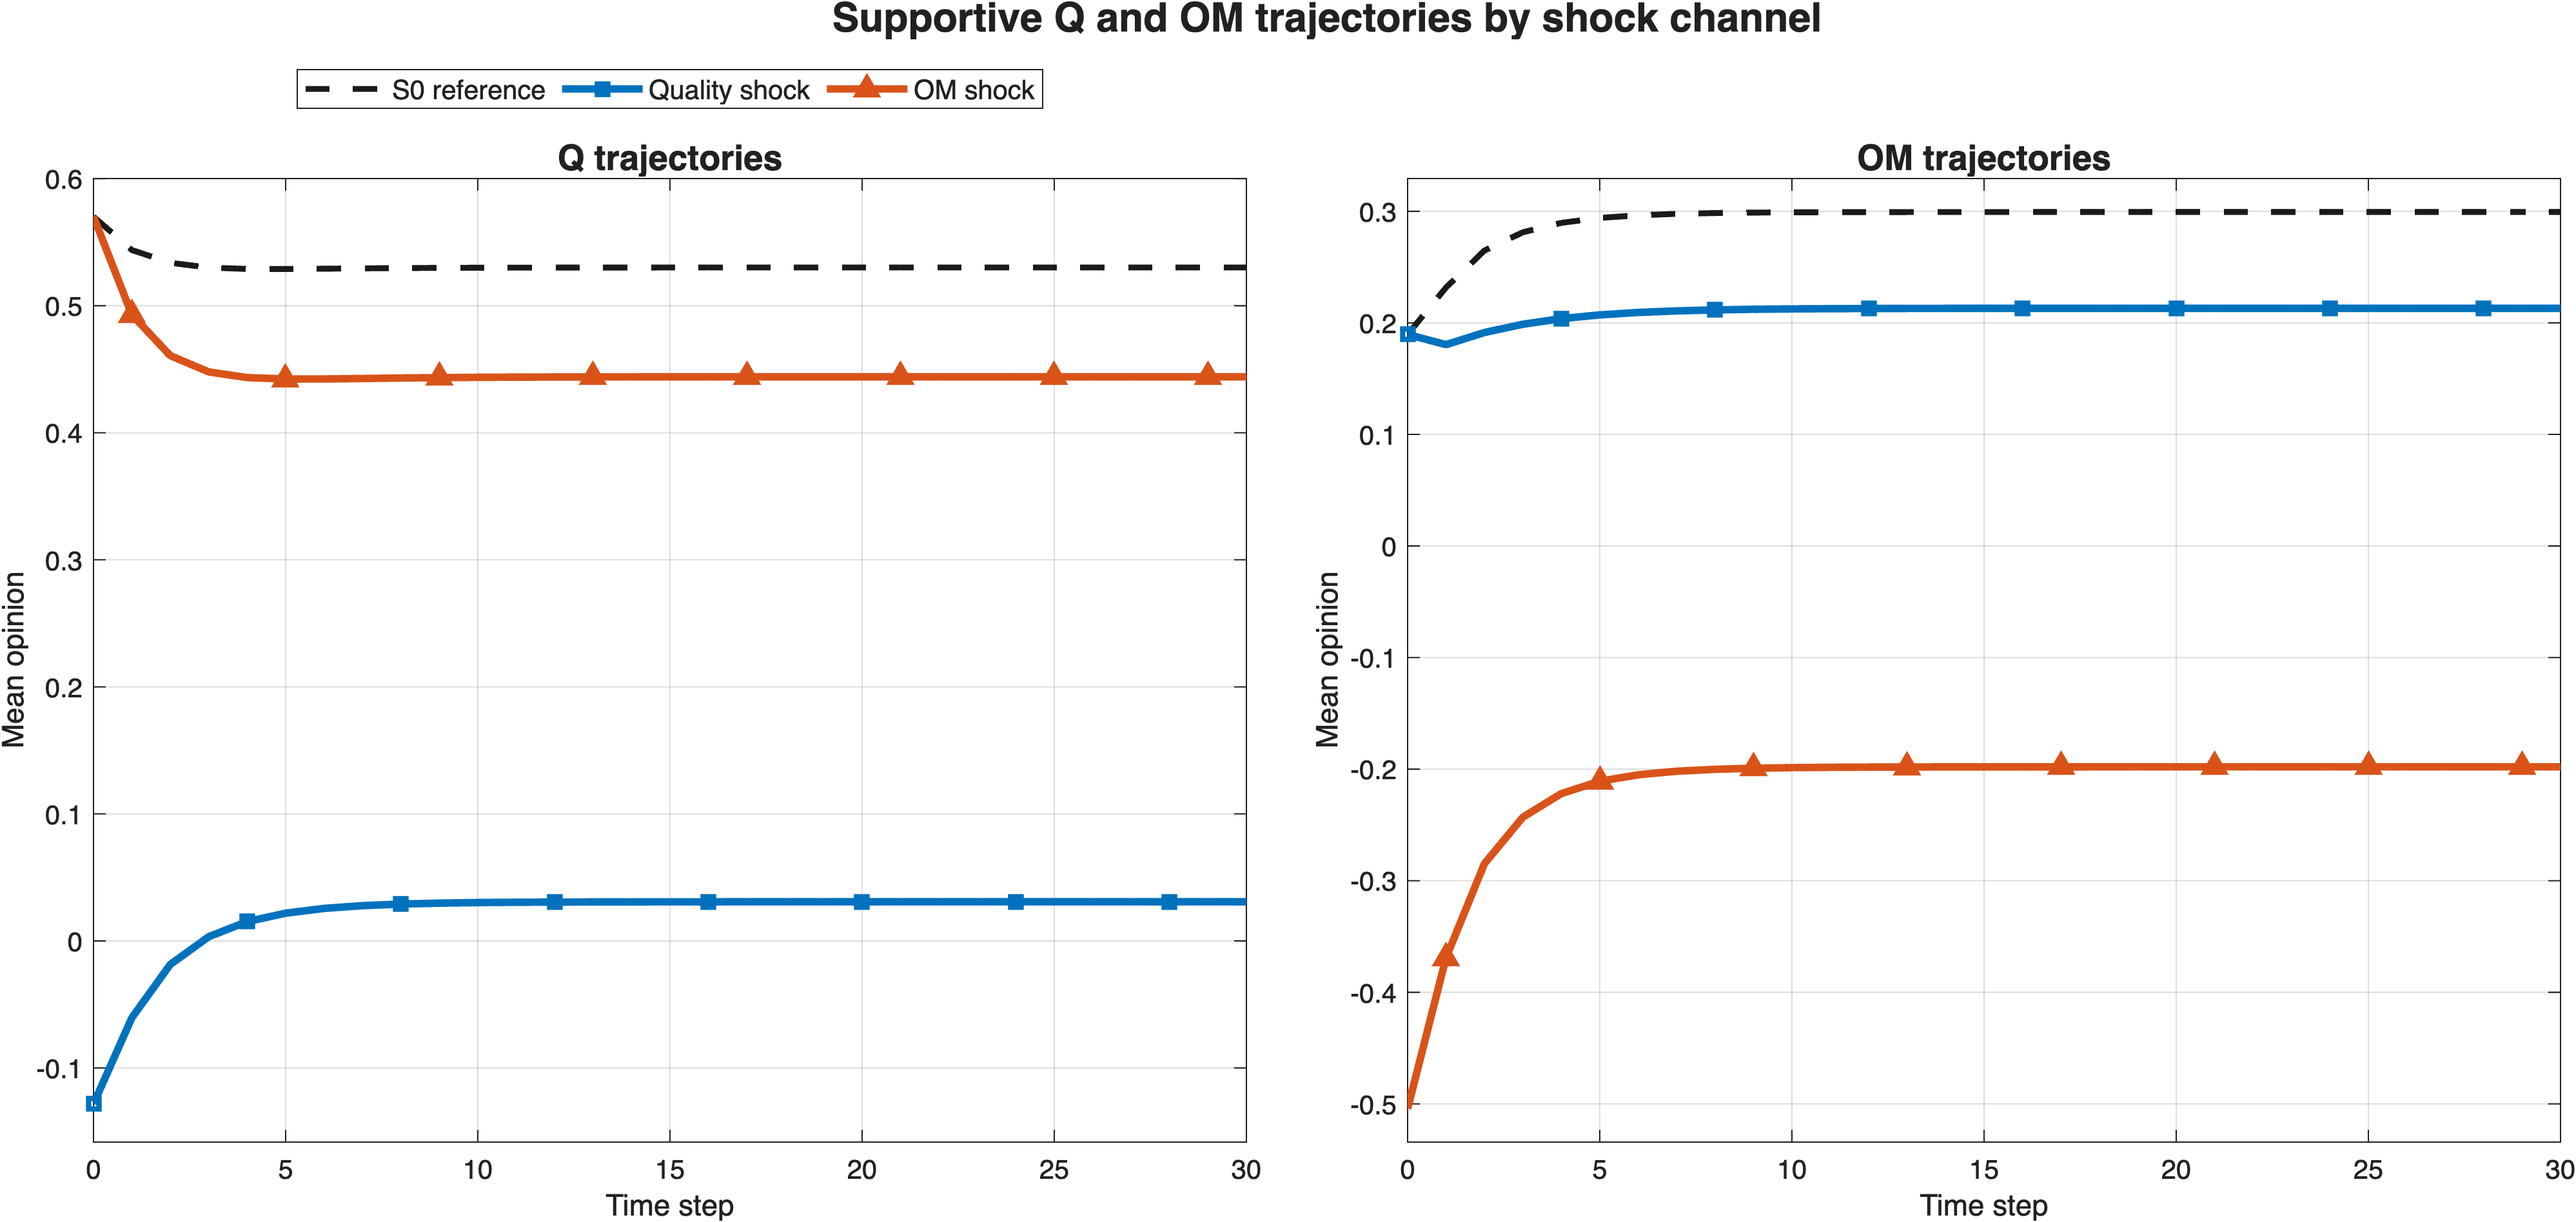
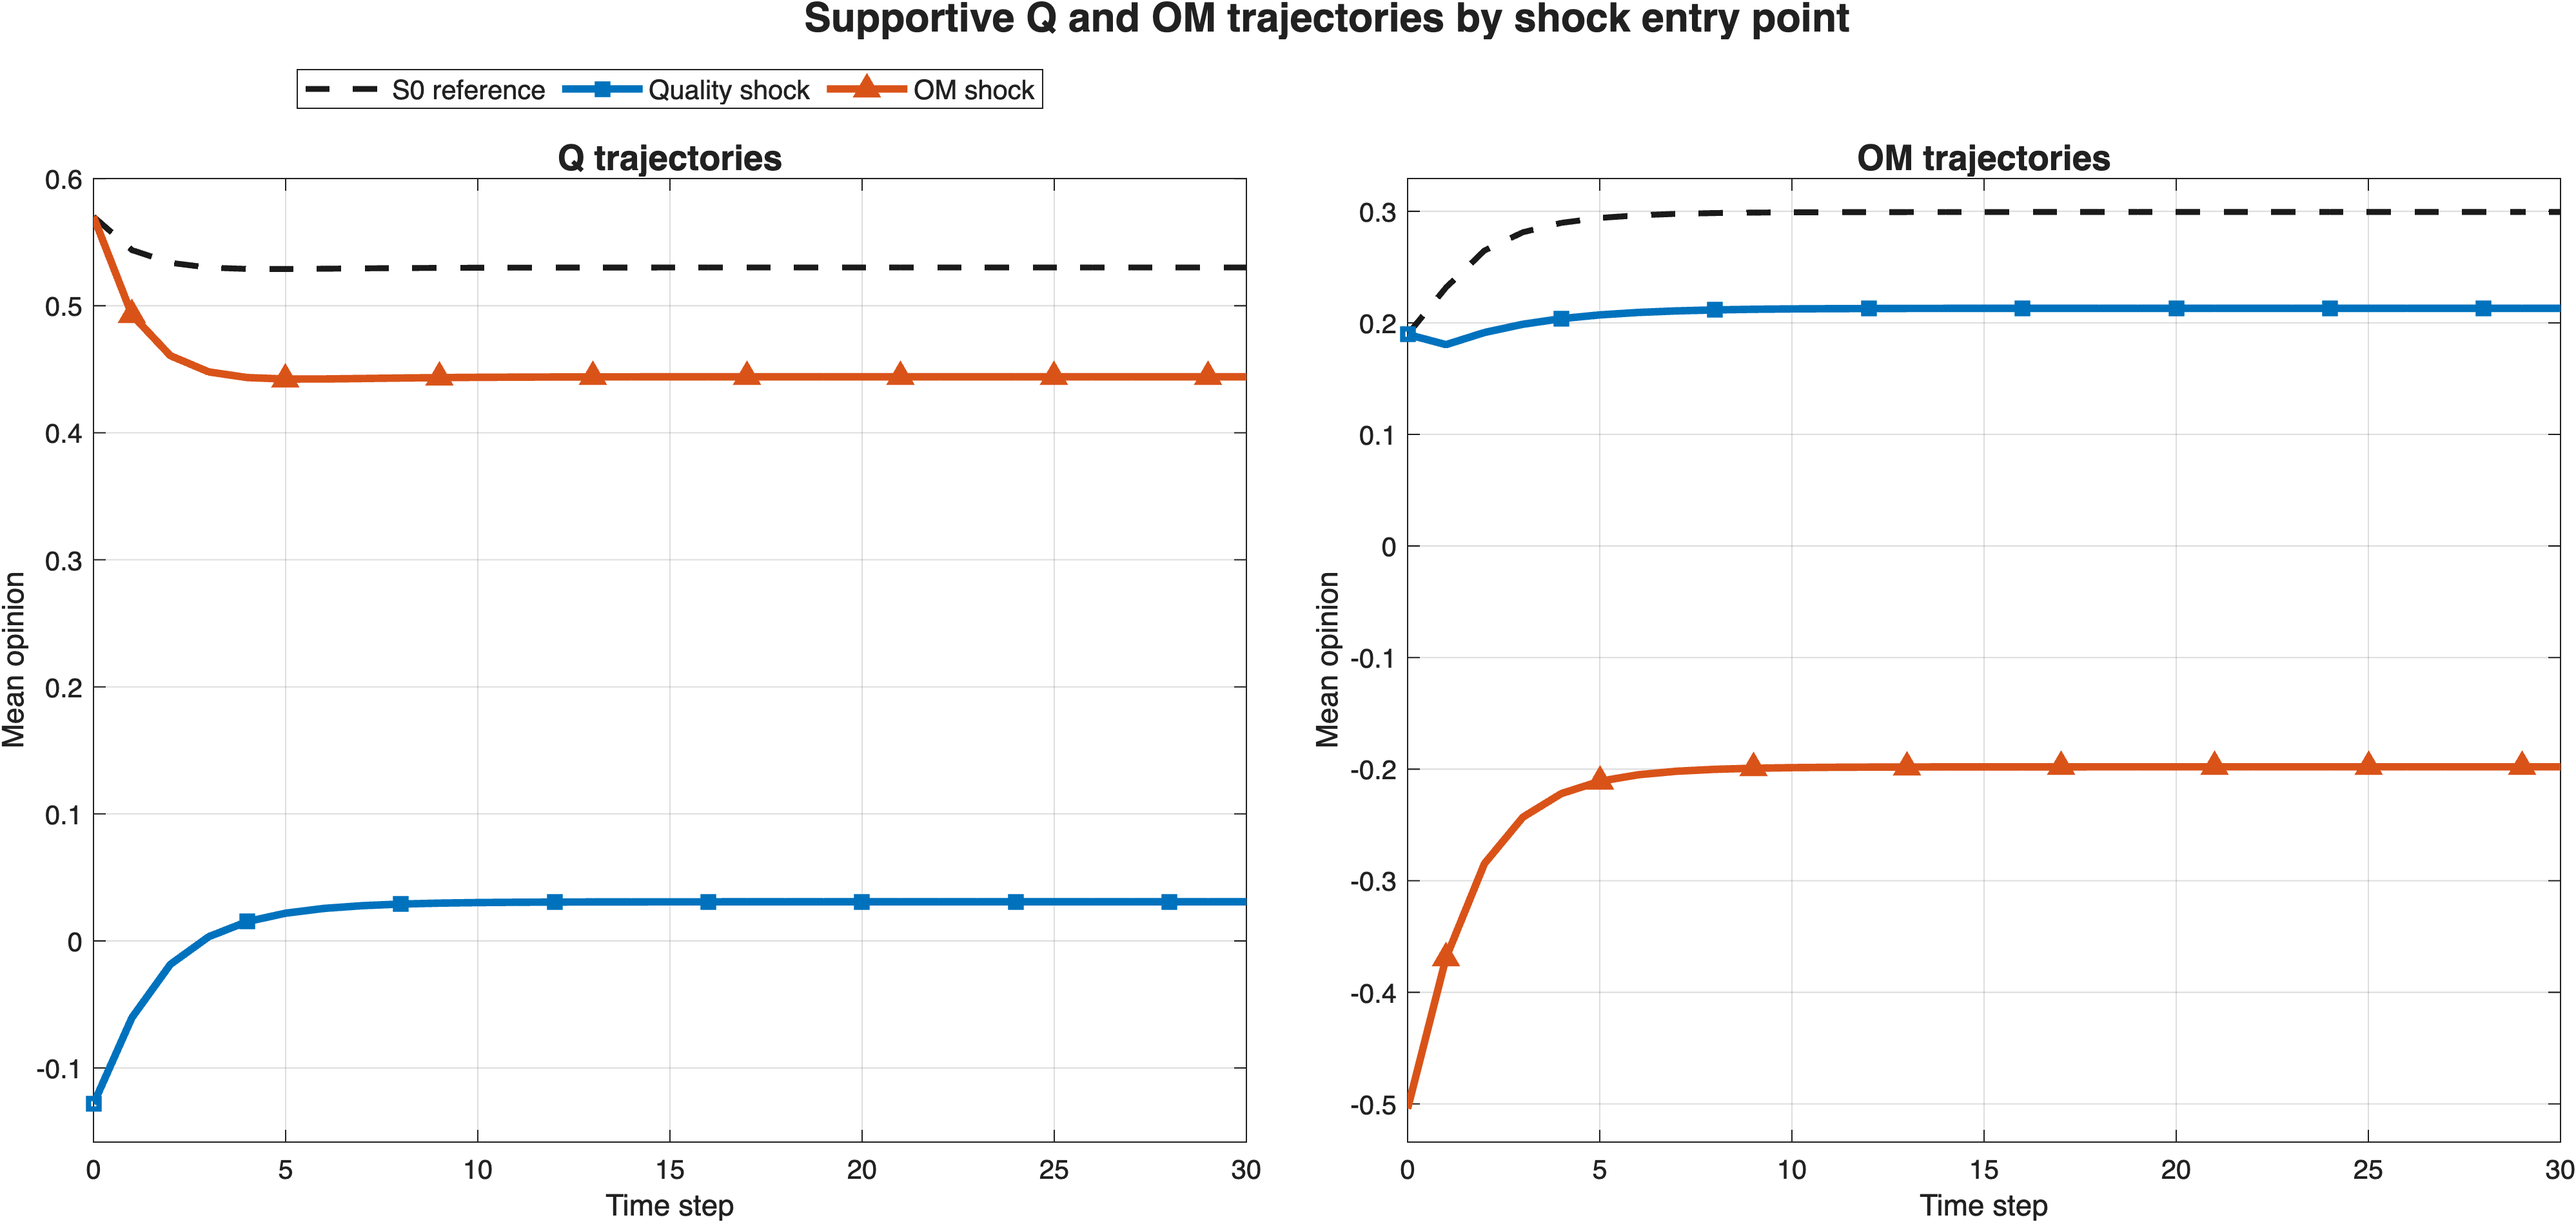
Update Section 4.4 and 4.6 figure wording and outputs

Changed region(s): [[0.3104, 0.0, 0.7139, 0.0311]]

diff --git a/run_report_section_4_6_shock_channel.m b/run_report_section_4_6_shock_channel.m
@@ -2,7 +2,7 @@
 clear; clc; close all;
 
 %% ============================================================
-% Final-report runner for Project B: Section 4.6 Shock-channel comparison
+% Final-report runner for Project B: Section 4.6 Shock entry-point comparison
 %
 % Main-text question:
 %   Holding the baseline system, shocked groups, and direct shock size
@@ -35,7 +35,7 @@ if ~exist(outdir, 'dir')
 end
 
 fprintf('\n============================================================\n');
-fprintf('Project B final-report runner: Section 4.6 Shock-channel comparison\n');
+fprintf('Project B final-report runner: Section 4.6 Shock entry-point comparison\n');
 fprintf('============================================================\n');
 fprintf('Matched direct shock size: %.2f\n', delta_main);
 
@@ -282,7 +282,7 @@ lgd_main = legend(ax1, [h1, h2, h3], ...
     'Box', 'on', ...
     'Location', 'northoutside');
 
-title(tl1, sprintf('Shock-channel comparison under matched direct shocks of size %.2f', delta_main), ...
+title(tl1, sprintf('Entry-point comparison under matched direct shocks of size %.2f', delta_main), ...
     'FontSize', 15, 'FontWeight', 'bold');
 
 exportgraphics(f1, fullfile(outdir, 'Figure_4_6_ShockChannel_BT_Only.png'), 'Resolution', 300);
@@ -375,7 +375,7 @@ lgd_app = legend(ax3, [hq1, hq2, hq3], ...
     'Box', 'on', ...
     'Location', 'northoutside');
 
-title(tl2, 'Supportive Q and OM trajectories by shock channel', ...
+title(tl2, 'Supportive Q and OM trajectories by shock entry point', ...
     'FontSize', 15, 'FontWeight', 'bold');
 
 exportgraphics(f2, fullfile(outdir, 'Appendix_A3_ShockChannel_Topics_Q_OM.png'), 'Resolution', 300);
@@ -408,7 +408,7 @@ set(ax5, 'XTick', 1:3, ...
     'XTickLabelRotation', 10);
 
 ylabel(ax5, 'Final BT');
-title(ax5, 'Role-specific final BT by shock channel', ...
+title(ax5, 'Role-specific final BT by shock entry point', ...
     'FontSize', 13, 'FontWeight', 'bold');
 grid(ax5, 'on');
 box(ax5, 'on');

diff --git a/run_report_section_4_4_shock_reach.m b/run_report_section_4_4_shock_reach.m
@@ -1,7 +1,7 @@
 clear; clc; close all;
 
 %% ============================================================
-% Final-report runner for Project B: Section 4.4 Shock reach
+% Final-report runner for Project B: Section 4.4 Exposure reach
 %
 % Purpose:
 %   Test whether broader direct quality-shock reach across ordinary
@@ -37,7 +37,7 @@ if ~exist(outdir, 'dir')
 end
 
 fprintf('\n============================================================\n');
-fprintf('Project B final-report runner: Section 4.4 Shock reach\n');
+fprintf('Project B final-report runner: Section 4.4 Exposure reach\n');
 fprintf('============================================================\n');
 fprintf('Direct shock size (DeltaQ): %.2f\n', deltaQ);
 fprintf('Ordinary-consumer exposure levels: ');
@@ -256,7 +256,7 @@ end
 
 grid(ax_main, 'on');
 box(ax_main, 'on');
-title(ax_main, sprintf('Shock reach: BT trajectories under varying ordinary-consumer exposure (\\DeltaQ = %.2f)', deltaQ), ...
+title(ax_main, sprintf('Exposure reach: BT trajectories under varying ordinary-consumer exposure (\\Delta Q = %.2f)', deltaQ), ...
     'FontSize', 15, 'FontWeight', 'bold');
 xlabel(ax_main, 'Time step', 'FontSize', 12);
 ylabel(ax_main, 'Mean opinion', 'FontSize', 12);
@@ -372,7 +372,7 @@ lgd = legend(ax1, [hS0_bt_app; hCases_bt_app], ...
     'Box', 'on');
 lgd.Layout.Tile = 'north';
 
-title(tl, sprintf('Shock reach under varying ordinary-consumer exposure (\\DeltaQ = %.2f)', deltaQ), ...
+title(tl, sprintf('Exposure reach under varying ordinary-consumer exposure (\\Delta Q = %.2f)', deltaQ), ...
     'FontSize', 15, 'FontWeight', 'bold');
 
 exportgraphics(f_app, fullfile(outdir, 'Appendix_A2_ShockReach_BTQ_VaryingExposure.png'), 'Resolution', 300);
